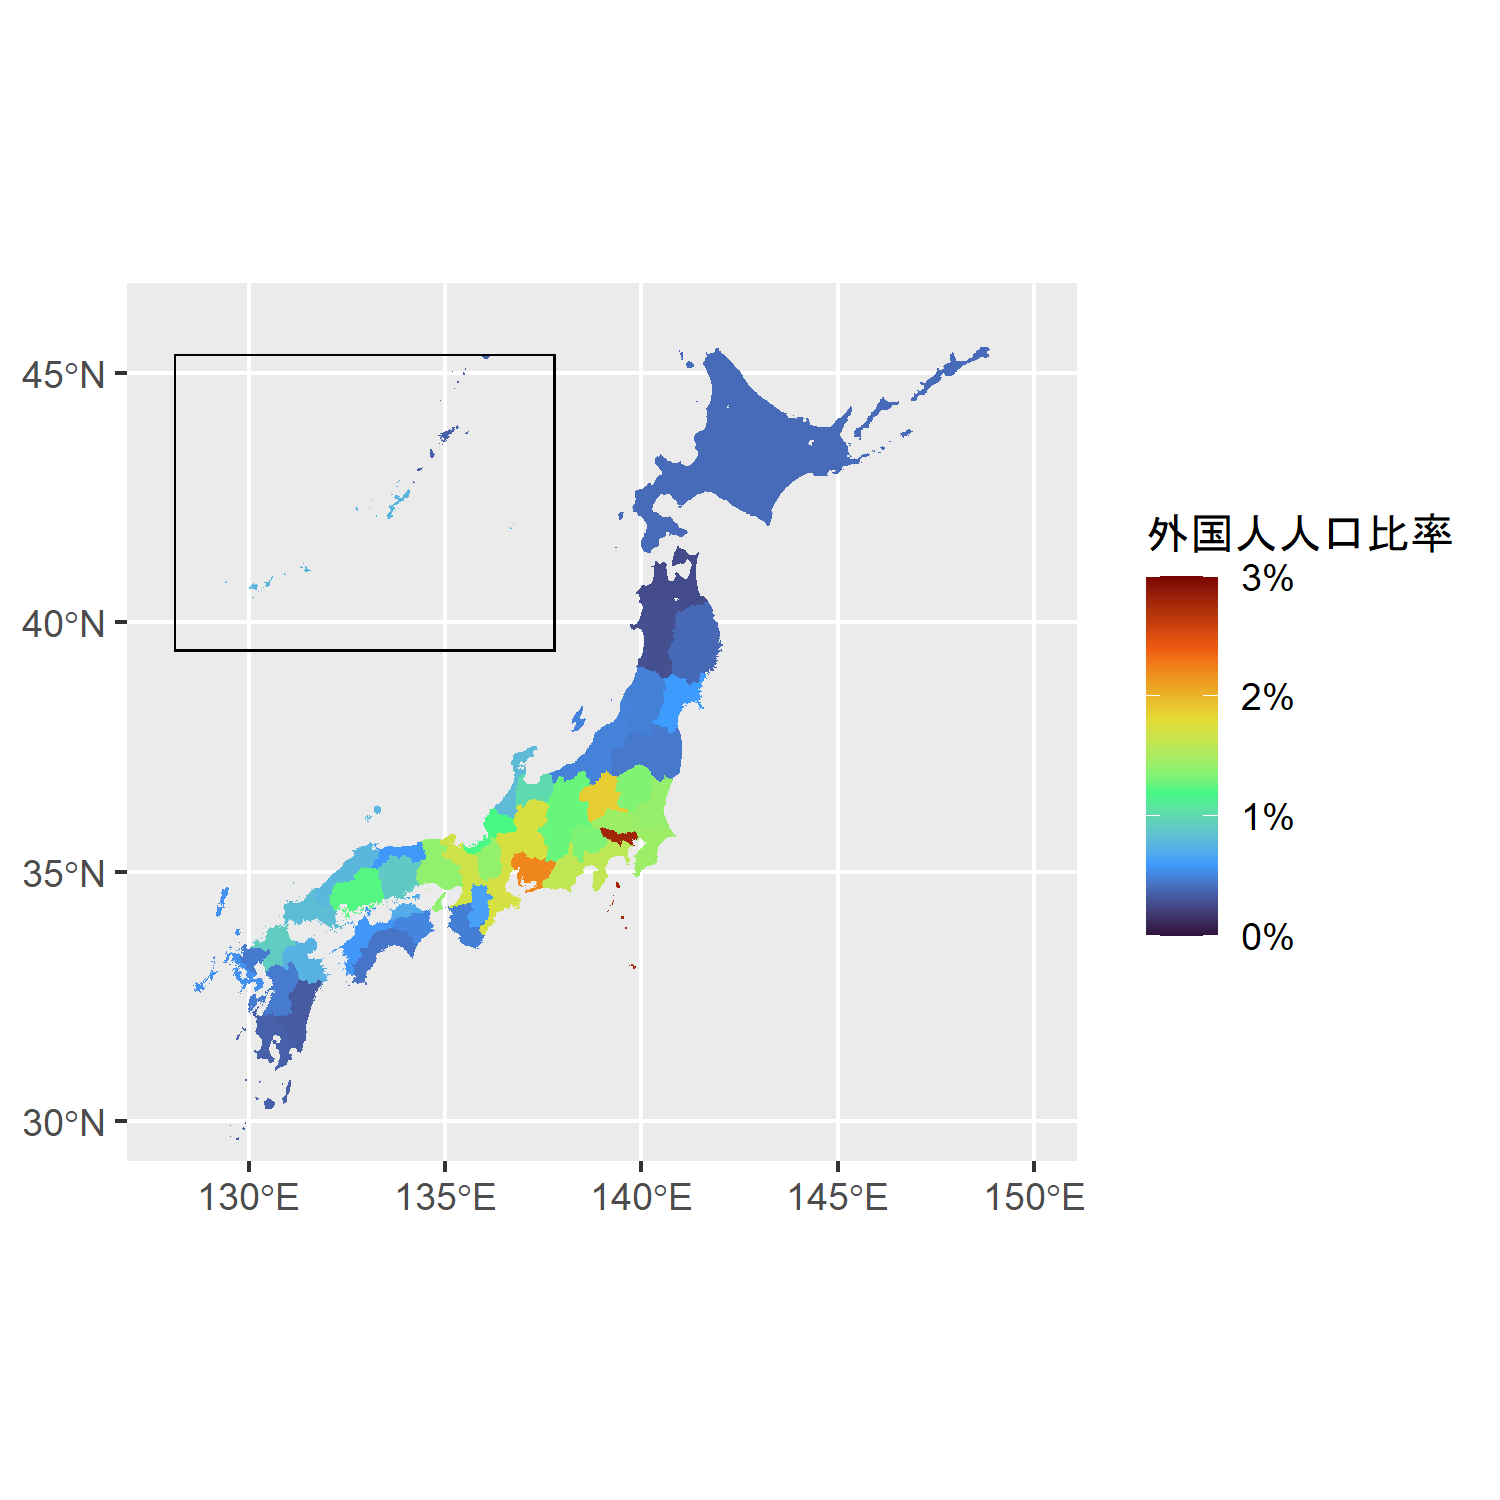
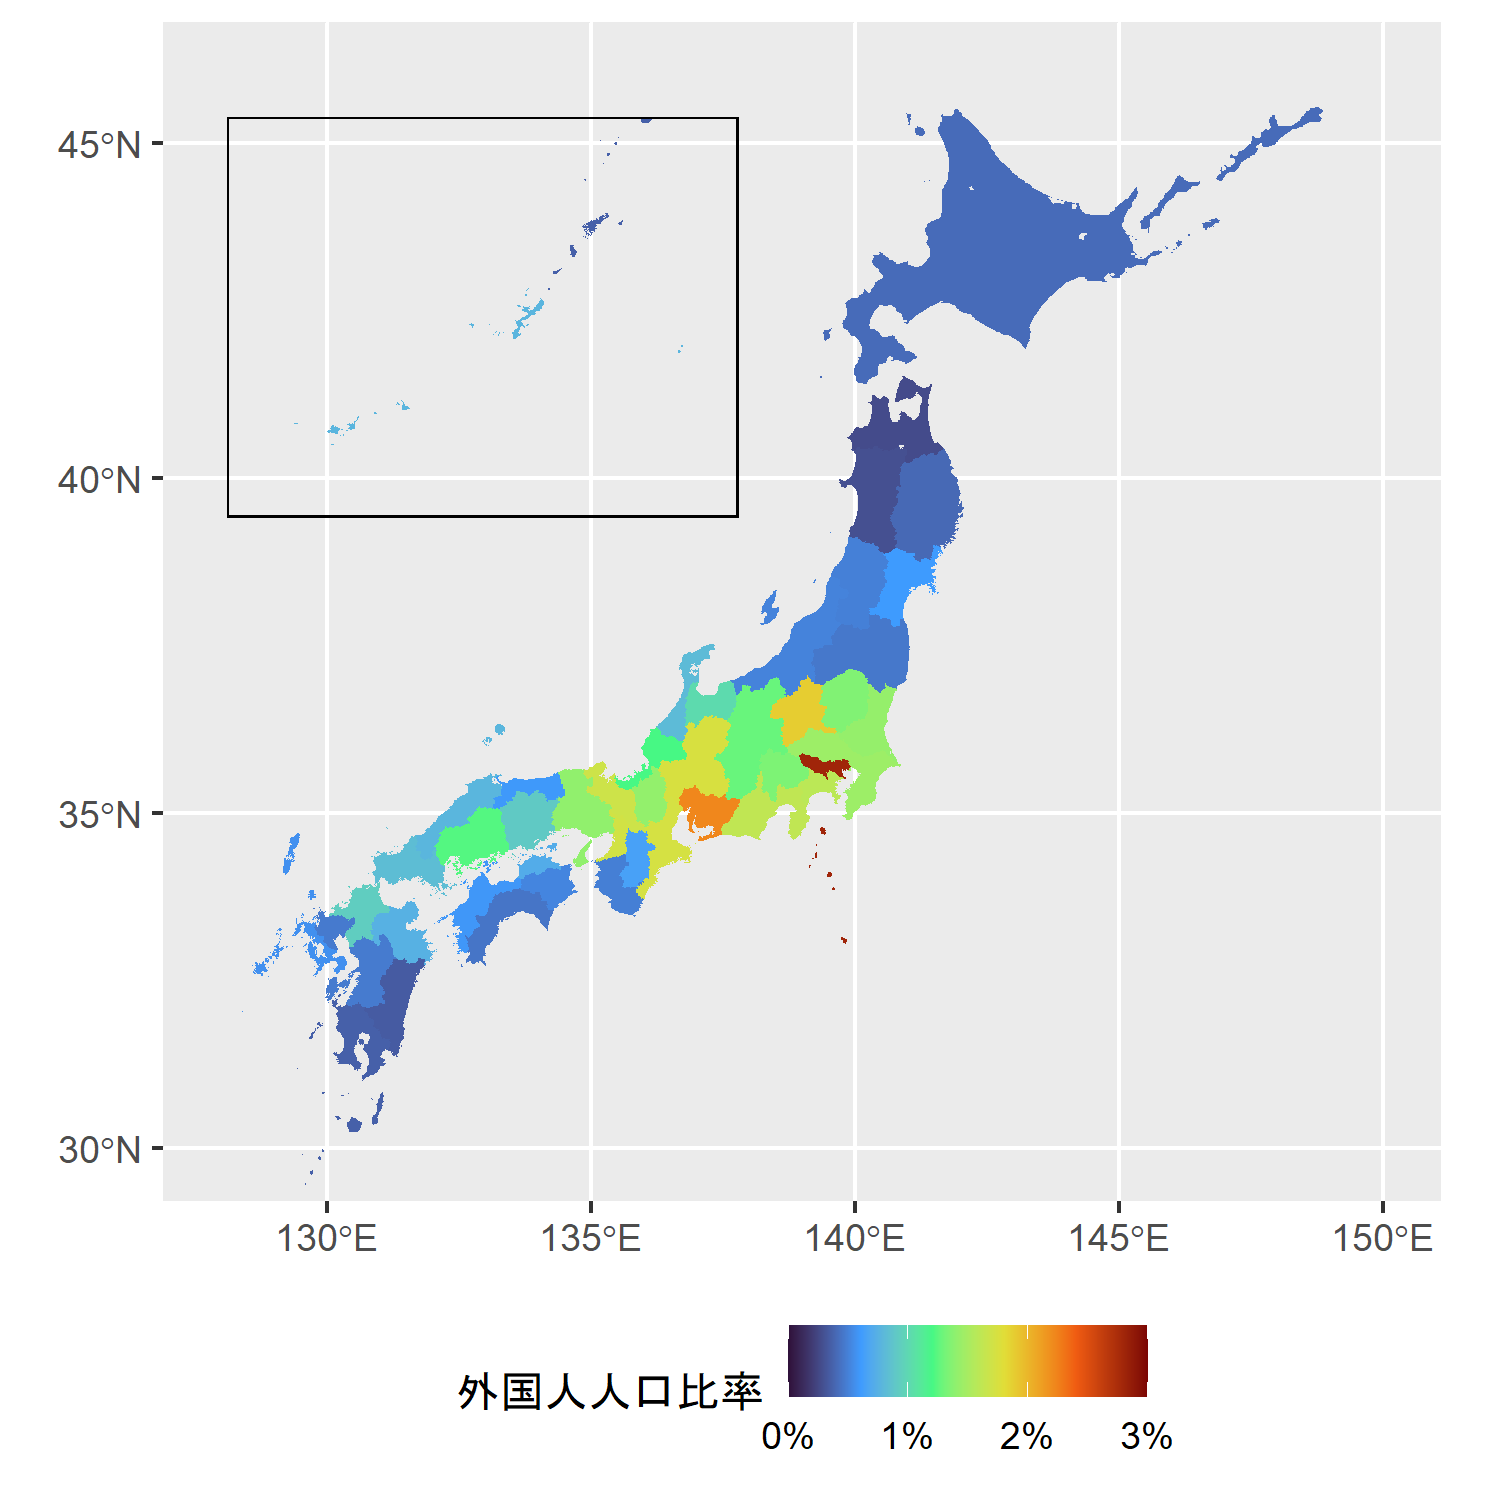
Update

diff --git a/docs/posts/draw-a-map-of-japan-in-r-ja/draw-a-map-of-japan-in-r-ja.html b/docs/posts/draw-a-map-of-japan-in-r-ja/draw-a-map-of-japan-in-r-ja.html
@@ -431,9 +431,13 @@ Geodetic CRS:  WGS 84
 </div>
 </div>
 <div class="cell">
-<div class="sourceCode cell-code" id="cb15"><pre class="sourceCode r code-with-copy"><code class="sourceCode r"><span id="cb15-1"><a href="#cb15-1" aria-hidden="true" tabindex="-1"></a><span class="fu">ggsave</span>(<span class="st">"foreigner_ratio_2015.png"</span>,</span>
-<span id="cb15-2"><a href="#cb15-2" aria-hidden="true" tabindex="-1"></a>       <span class="at">width =</span> <span class="dv">5</span>,</span>
-<span id="cb15-3"><a href="#cb15-3" aria-hidden="true" tabindex="-1"></a>       <span class="at">height =</span> <span class="dv">5</span>)</span></code><button title="コピー" class="code-copy-button"><i class="bi"></i></button></pre></div>
+<div class="sourceCode cell-code" id="cb15"><pre class="sourceCode r code-with-copy"><code class="sourceCode r"><span id="cb15-1"><a href="#cb15-1" aria-hidden="true" tabindex="-1"></a>jpmap<span class="sc">::</span><span class="fu">layout_islands</span>(plot,</span>
+<span id="cb15-2"><a href="#cb15-2" aria-hidden="true" tabindex="-1"></a>                      <span class="at">ogasawara =</span> <span class="cn">FALSE</span>) <span class="sc">+</span></span>
+<span id="cb15-3"><a href="#cb15-3" aria-hidden="true" tabindex="-1"></a>  <span class="fu">theme</span>(<span class="at">legend.position =</span> <span class="st">"bottom"</span>)</span>
+<span id="cb15-4"><a href="#cb15-4" aria-hidden="true" tabindex="-1"></a></span>
+<span id="cb15-5"><a href="#cb15-5" aria-hidden="true" tabindex="-1"></a><span class="fu">ggsave</span>(<span class="st">"foreigner_ratio_2015.png"</span>,</span>
+<span id="cb15-6"><a href="#cb15-6" aria-hidden="true" tabindex="-1"></a>       <span class="at">width =</span> <span class="dv">5</span>,</span>
+<span id="cb15-7"><a href="#cb15-7" aria-hidden="true" tabindex="-1"></a>       <span class="at">height =</span> <span class="dv">5</span>)</span></code><button title="コピー" class="code-copy-button"><i class="bi"></i></button></pre></div>
 </div>
 </section>
 <section id="まとめ地図からわかったこと" class="level2">

diff --git a/docs/index.html b/docs/index.html
@@ -157,7 +157,7 @@ gtag('config', 'G-VW3C30XP8C', { 'anonymize_ip': true});
 
 <div class="quarto-listing quarto-listing-container-default" id="listing-listing">
 <div class="list quarto-listing-default">
-<div class="quarto-post image-right" data-index="0" data-categories="ggplot2,sf,jpmap,R,Japanese" data-listing-date-sort="1654873200000" data-listing-file-modified-sort="1654965768687" data-listing-reading-time-sort="4.14">
+<div class="quarto-post image-right" data-index="0" data-categories="ggplot2,sf,jpmap,R,Japanese" data-listing-date-sort="1654873200000" data-listing-file-modified-sort="1654966260228" data-listing-reading-time-sort="4.285">
 <div class="thumbnail">
 <p><a href="./posts/draw-a-map-of-japan-in-r-ja/draw-a-map-of-japan-in-r-ja.html"> <img src="./posts/draw-a-map-of-japan-in-r-ja/foreigner_ratio_2015.png" class="thumnail-image"> </a></p>
 </div>
